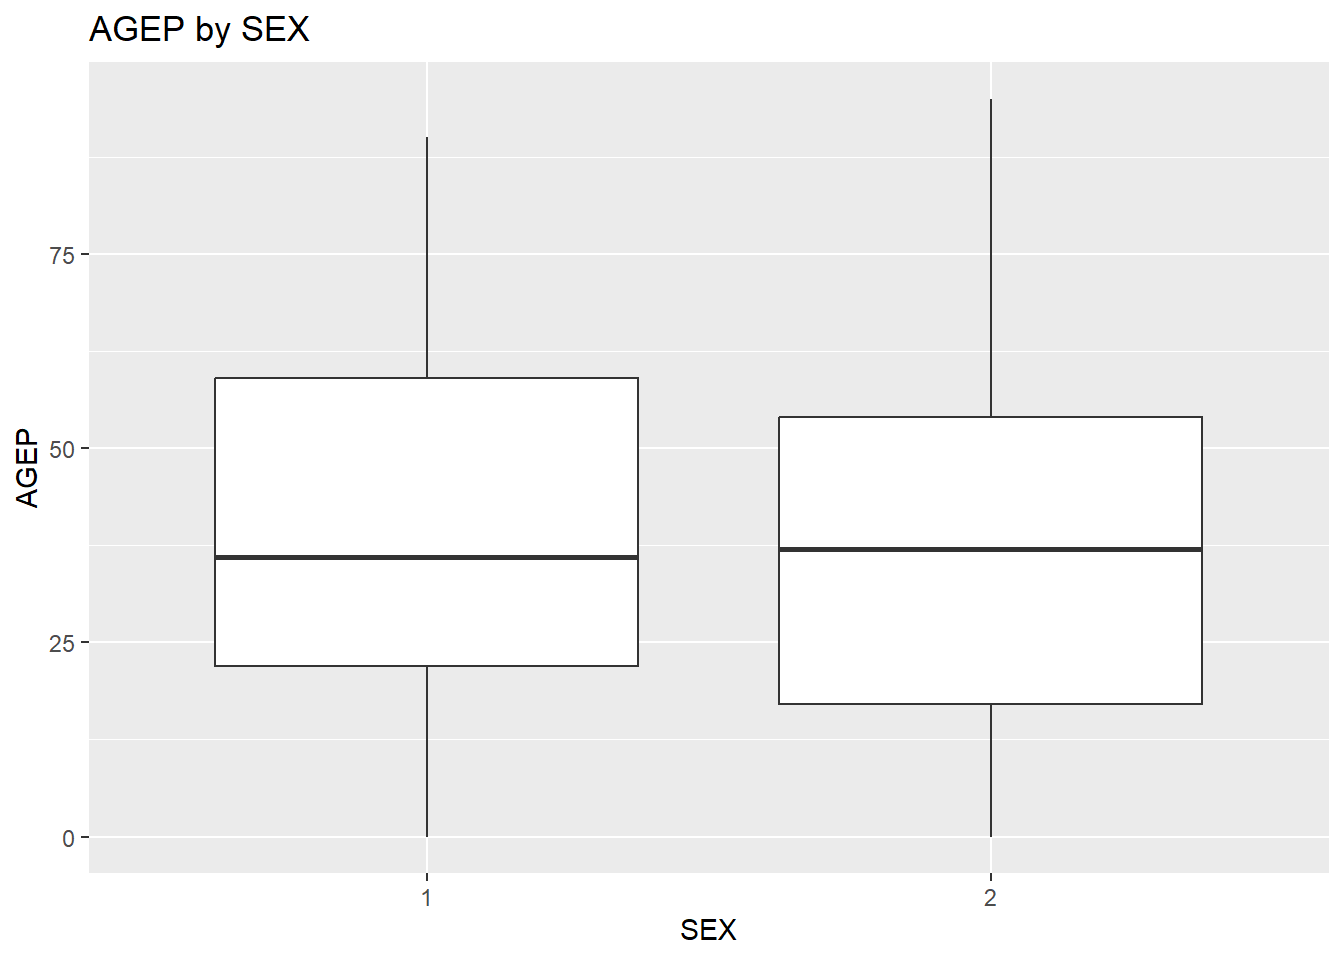
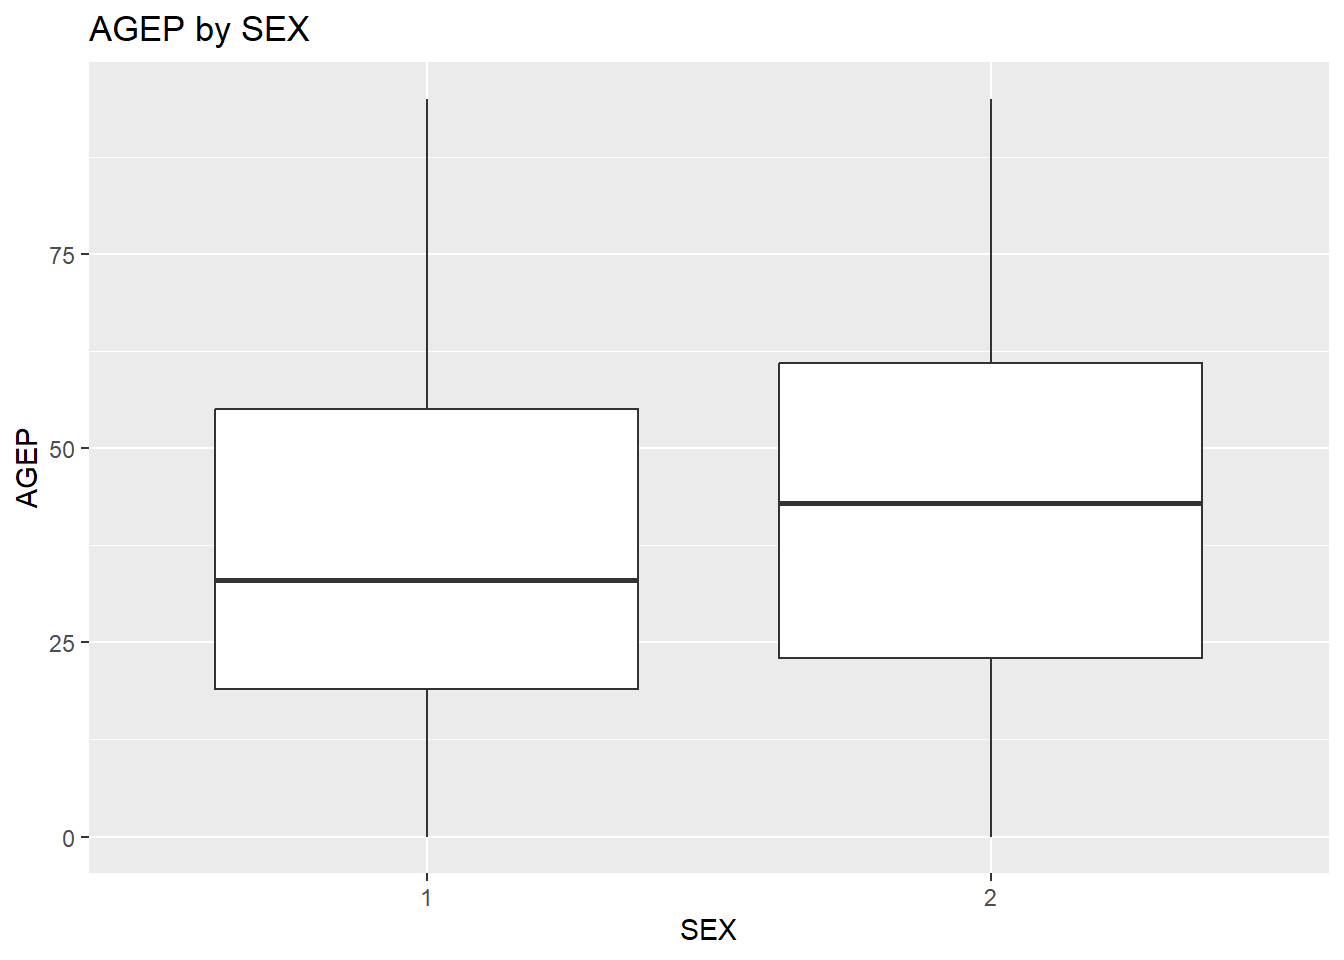
As done as will get at this point

diff --git a/docs/Project_1.html b/docs/Project_1.html
@@ -214,9 +214,9 @@ pre > code.sourceCode > span > a:first-child::before { text-decoration: underlin
   ..$ content-security-policy     : chr "default-src 'self'; img-src 'self' data:; object-src 'none'; script-src 'self' 'unsafe-inline'; style-src 'self"| __truncated__
   ..$ x-content-type-options      : chr "nosniff"
   ..$ content-type                : chr "application/json;charset=utf-8"
-  ..$ date                        : chr "Mon, 22 Jun 2026 02:20:50 GMT"
+  ..$ date                        : chr "Mon, 22 Jun 2026 14:57:40 GMT"
   ..$ strict-transport-security   : chr "max-age=31536000"
[2 lines of base64/hex data omitted]
   ..$ transfer-encoding           : chr "chunked"
   ..- attr(*, "class")= chr [1:2] "insensitive" "list"
  $ all_headers:List of 1
@@ -232,9 +232,9 @@ pre > code.sourceCode > span > a:first-child::before { text-decoration: underlin
   .. .. ..$ content-security-policy     : chr "default-src 'self'; img-src 'self' data:; object-src 'none'; script-src 'self' 'unsafe-inline'; style-src 'self"| __truncated__
   .. .. ..$ x-content-type-options      : chr "nosniff"
   .. .. ..$ content-type                : chr "application/json;charset=utf-8"
-  .. .. ..$ date                        : chr "Mon, 22 Jun 2026 02:20:50 GMT"
+  .. .. ..$ date                        : chr "Mon, 22 Jun 2026 14:57:40 GMT"
   .. .. ..$ strict-transport-security   : chr "max-age=31536000"
[2 lines of base64/hex data omitted]
   .. .. ..$ transfer-encoding           : chr "chunked"
   .. .. ..- attr(*, "class")= chr [1:2] "insensitive" "list"
  $ cookies    :'data.frame':    1 obs. of  7 variables:
@@ -244,10 +244,10 @@ pre > code.sourceCode > span > a:first-child::before { text-decoration: underlin
   ..$ secure    : logi TRUE
   ..$ expiration: POSIXct[1:1], format: "Inf"
   ..$ name      : chr "TS010383f0"
[2 lines of base64/hex data omitted]
  $ content    : raw [1:249619452] 5b 5b 22 53 ...
- $ date       : POSIXct[1:1], format: "2026-06-22 02:20:50"
- $ times      : Named num [1:6] 0 0.0059 0.065 0.1813 29.6999 ...
+ $ date       : POSIXct[1:1], format: "2026-06-22 14:57:40"
+ $ times      : Named num [1:6] 0 0.0337 0.0677 0.3499 25.5652 ...
   ..- attr(*, "names")= chr [1:6] "redirect" "namelookup" "connect" "pretransfer" ...
  $ request    :List of 7
   ..$ method    : chr "GET"